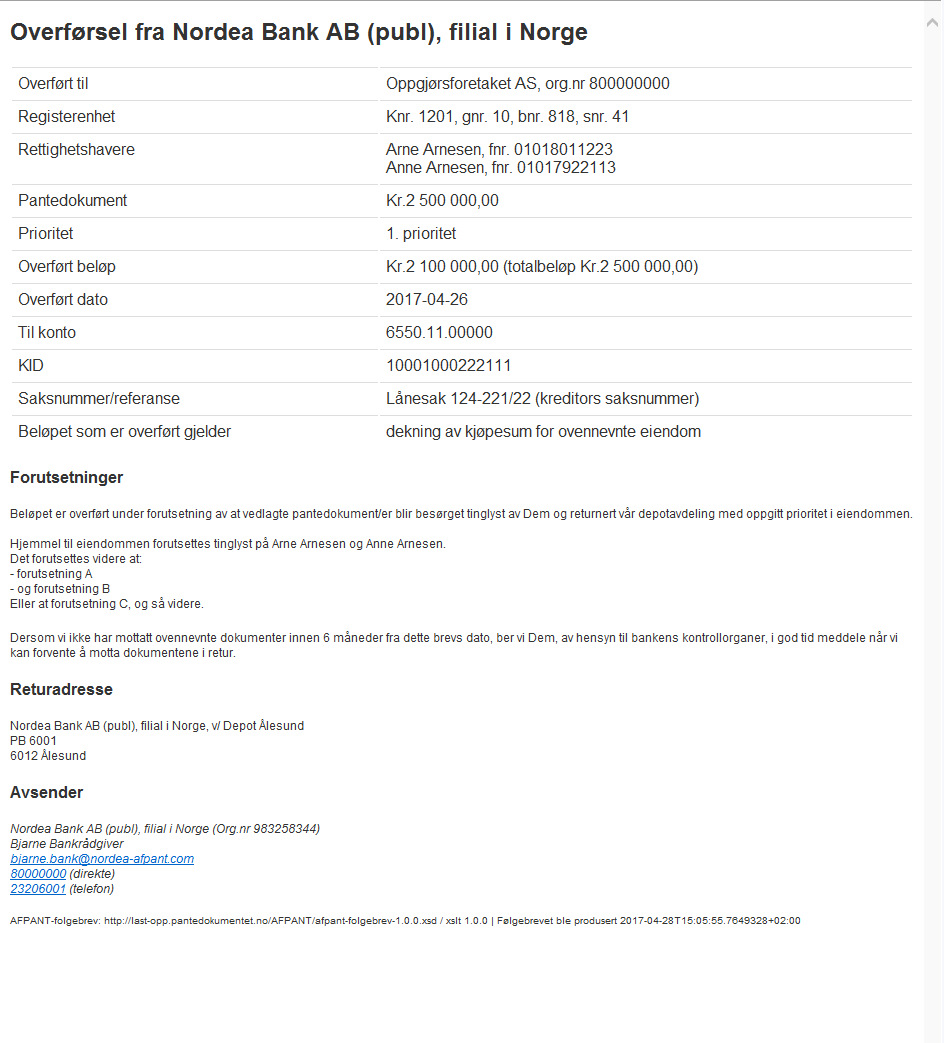
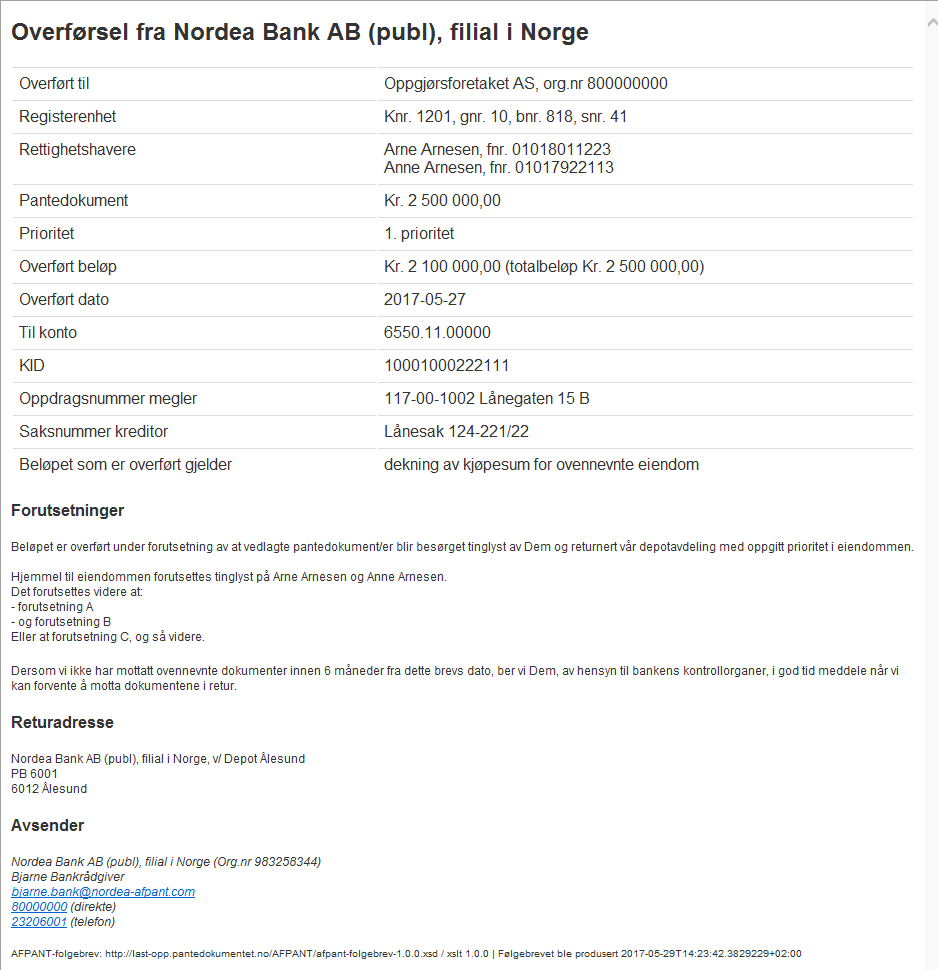
oppdatert visning av saksnummer / oppdragsnummer. whitespace mellom "kr." og beløp.

Changed region(s): [[0.0, 0.0, 0.9584, 0.9897], [0.9893, 0.0, 1.0, 0.0309]]

diff --git a/spesifikasjoner/afpant/afpant-folgebrev/afpant-folgebrev-example/Program.cs b/spesifikasjoner/afpant/afpant-folgebrev/afpant-folgebrev-example/Program.cs
@@ -70,12 +70,13 @@ namespace afpant_folgebrev_example
             folgebrev.OverfoerselDetaljer = new Overfoersel()
             {
                 Beloep = 2100000,
-                BeloepOverfortDato = DateTime.Now.AddDays(-2).Date,                          
+                BeloepOverfortDato = DateTime.Now.AddDays(-2).Date,
                 TotalBeloep = 2500000,
                 BeloepGjelder = "dekning av kjøpesum for ovennevnte eiendom",
                 TilKontonummer = "65501100000",
                 KID = "10001000222111",
                 KreditorSaksnummer = "Lånesak 124-221/22",
+                MeglerSaksnummer = "117-00-1002 Lånegaten 15 B",
                 ProdusertDato = DateTime.Now
             };
 
@@ -111,11 +112,11 @@ Eller at forutsetning C, og så videre."
             //serialize to memory, append XSD + XSLT instructions, save to file
             using (var ms = new MemoryStream())
             {
-                var ser = new XmlSerializer(typeof(Folgebrev));                
+                var ser = new XmlSerializer(typeof(Folgebrev));
                 ser.Serialize(ms, folgebrev);
                 ms.Seek(0, SeekOrigin.Begin);
 
-                var xmlDoc = new XmlDocument();                
+                var xmlDoc = new XmlDocument();
                 xmlDoc.Load(ms);
 
                 // append XSD reference
